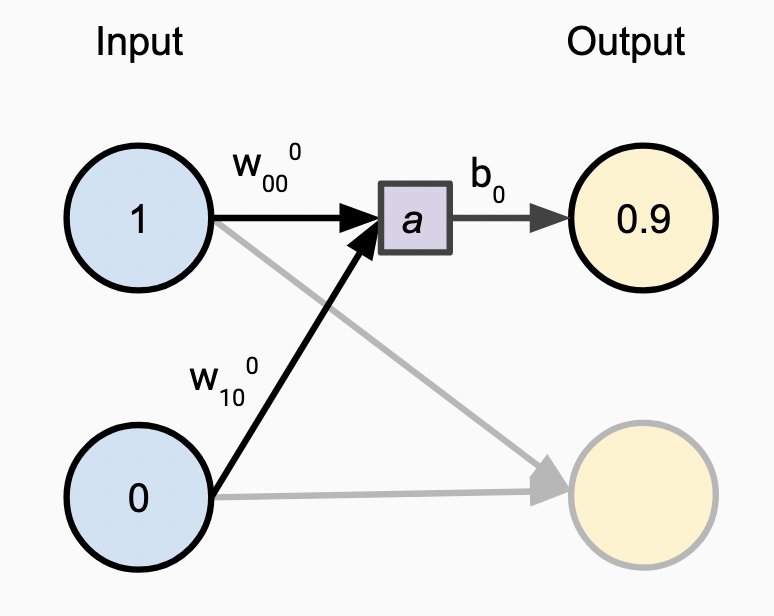
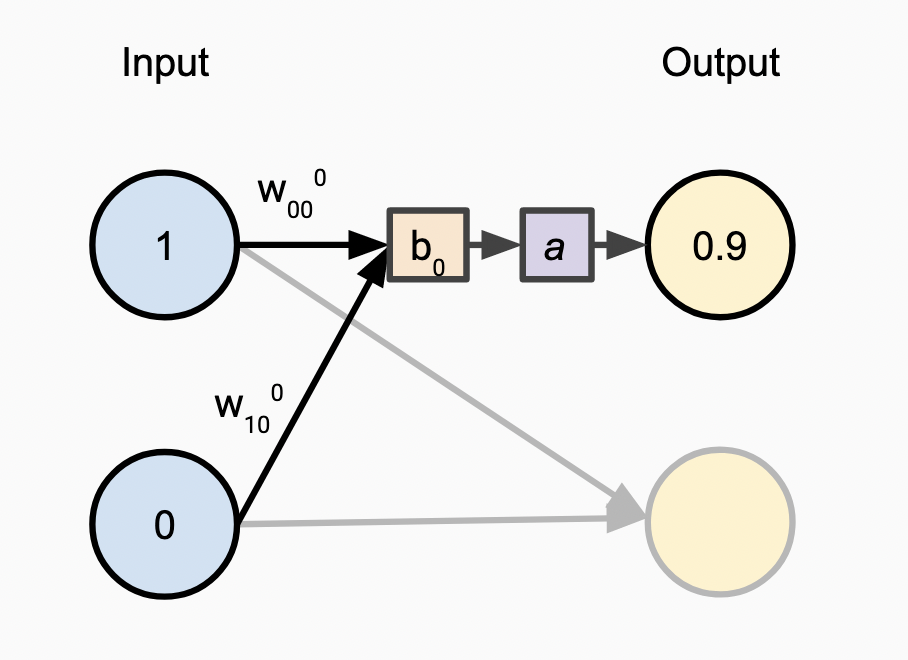
blog: add section on forward propagation

diff --git a/content/blog/goml-mlp.md b/content/blog/goml-mlp.md
@@ -221,6 +221,29 @@ support for generics[^goGenerics] that could be something made parameterizable.
 
 ## Forward Propagation: Making predictions
 
+We will now be implementing this forward propagation step, where we transform a
+set of inputs passed into this network into a set of outputs.
+
+One thing I have found confusing in some portrayals of neural networks is that
+so much of the focus on the "neurons" themselves, represented as nodes in the
+network graph. The real magic is all in the edges! The weights attached to the
+edges, the activation function that they pass through, and the bias values
+shifting the output, are what give these networks their power. The nodes
+themselves are just representations of state, which is what this diagram
+attempts to show:
+
+{{< img 4-basic-neuron-operation.png "Basic Neuron Operation" >}}
+
+With that in mind, we iterate through each input value we are recieving from the
+last layer and calculate the activations. This is skipped for the input layer,
+since it is just recieving the raw values into the network. The combination of
+the weights and input values into a single value is most clearly expressed as a
+dot-product, and the `Z` value is used to record the linear combination of the
+weights with the bias added in before the activation function. Both this `Z`
+value and the activation value itself are stored, not for use in the forward
+propagation, but for use later in the backpropagation process.
+
+{{< emgithub "https://github.com/kujenga/goml/blob/b73f6122025613f0ffe91033a959b8d0093baab4/neural/mlp.go#L247-L268" >}}
 
 ## Backpropagation: Training the network
 
